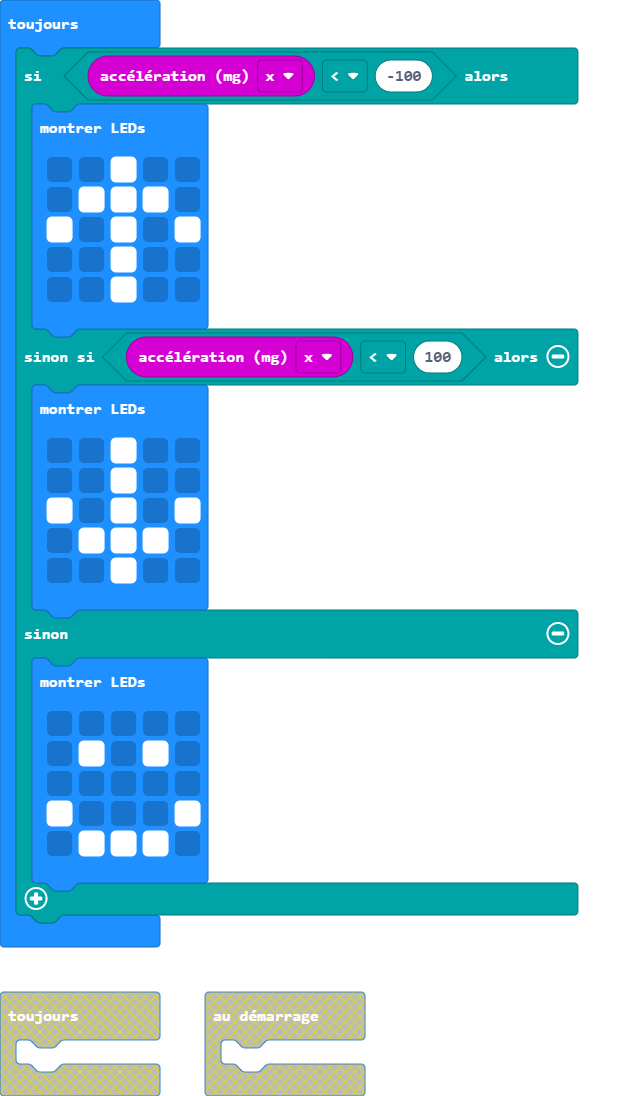
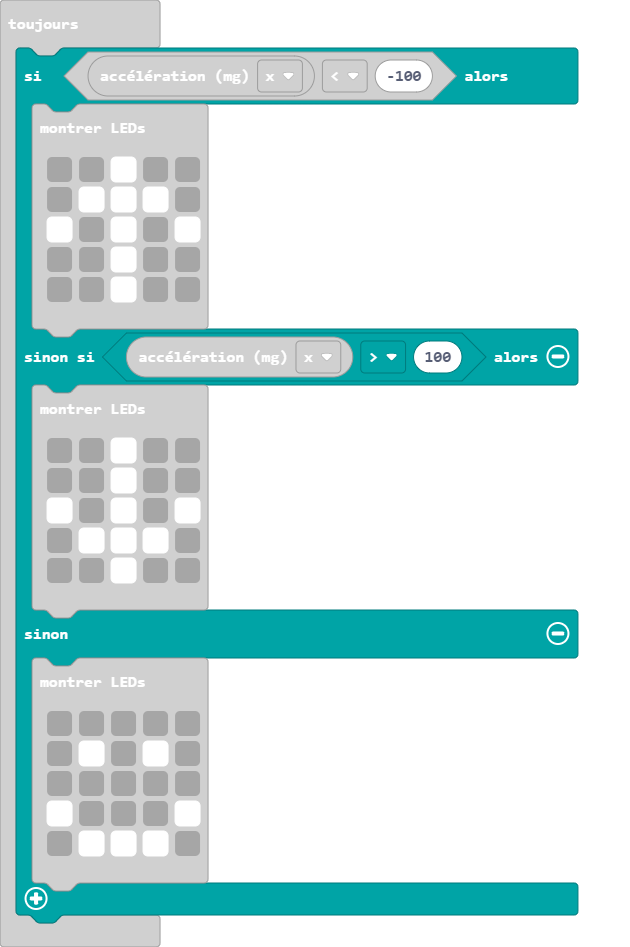
Mise à jour main.blocks, main.ts

diff --git a/main.ts b/main.ts
@@ -7,7 +7,7 @@ basic.forever(function () {
             . . # . .
             . . # . .
             `)
-    } else if (input.acceleration(Dimension.X) < 100) {
+    } else if (input.acceleration(Dimension.X) > 100) {
         basic.showLeds(`
             . . # . .
             . . # . .
